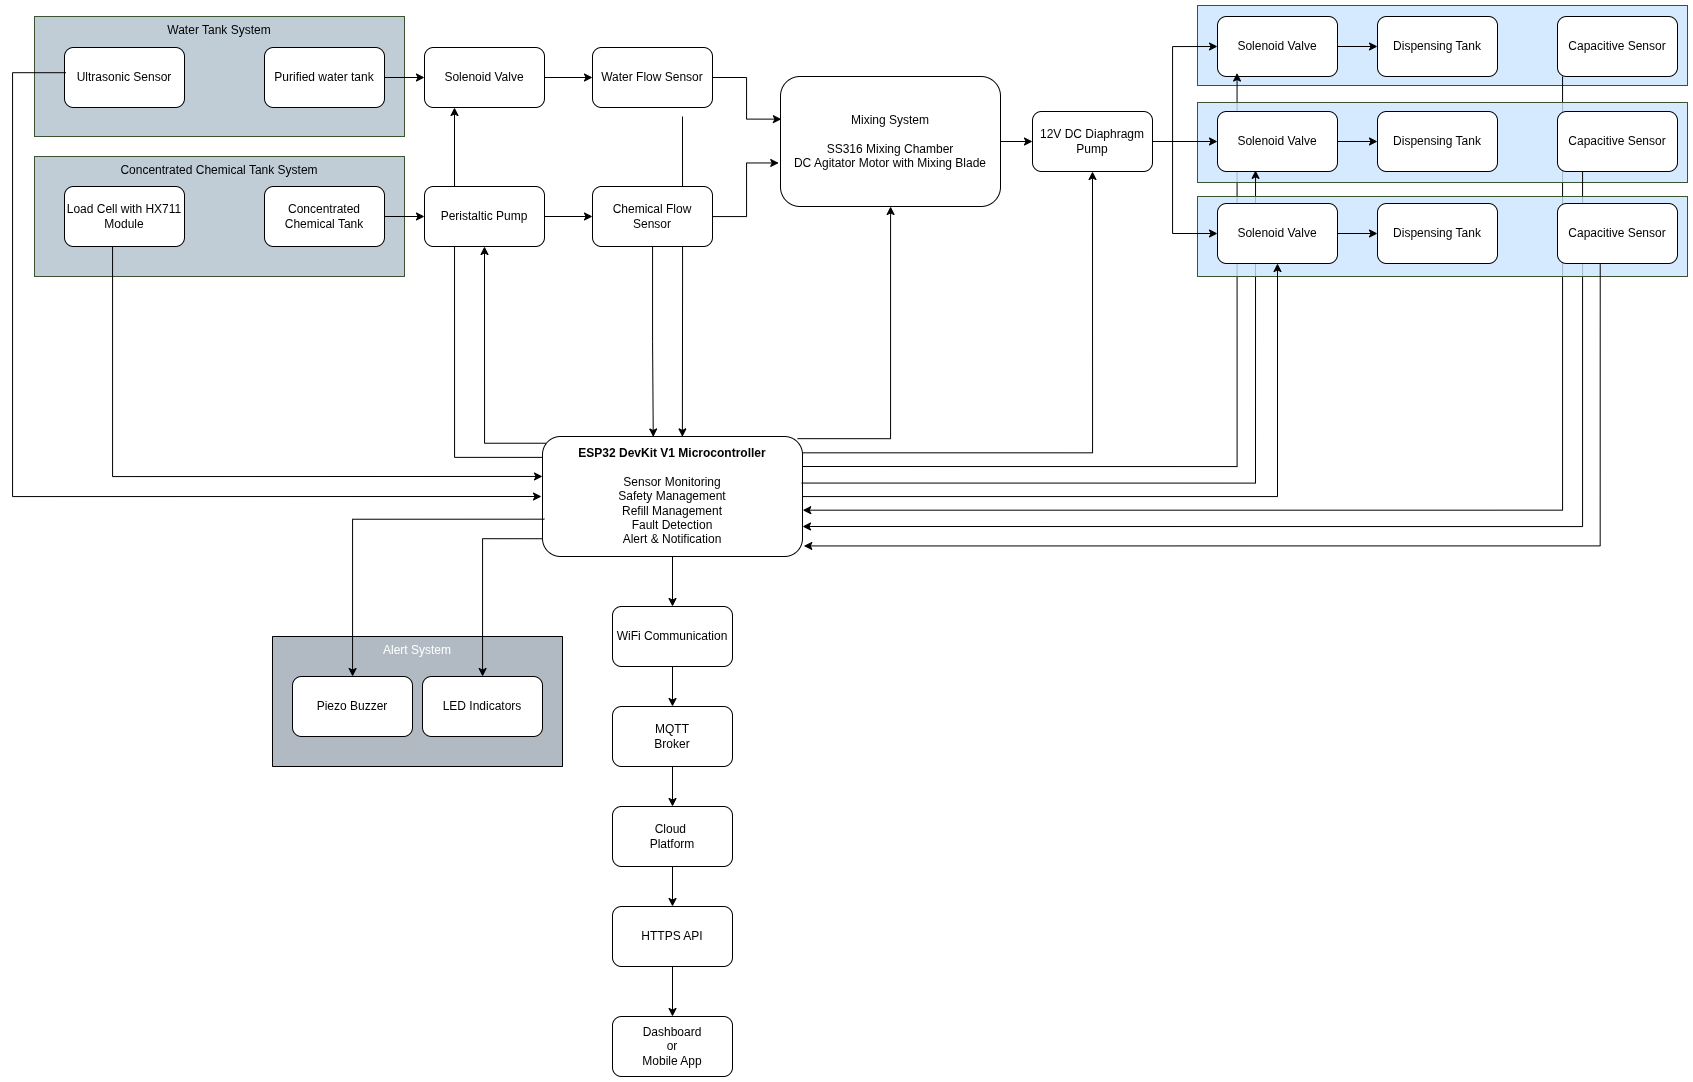
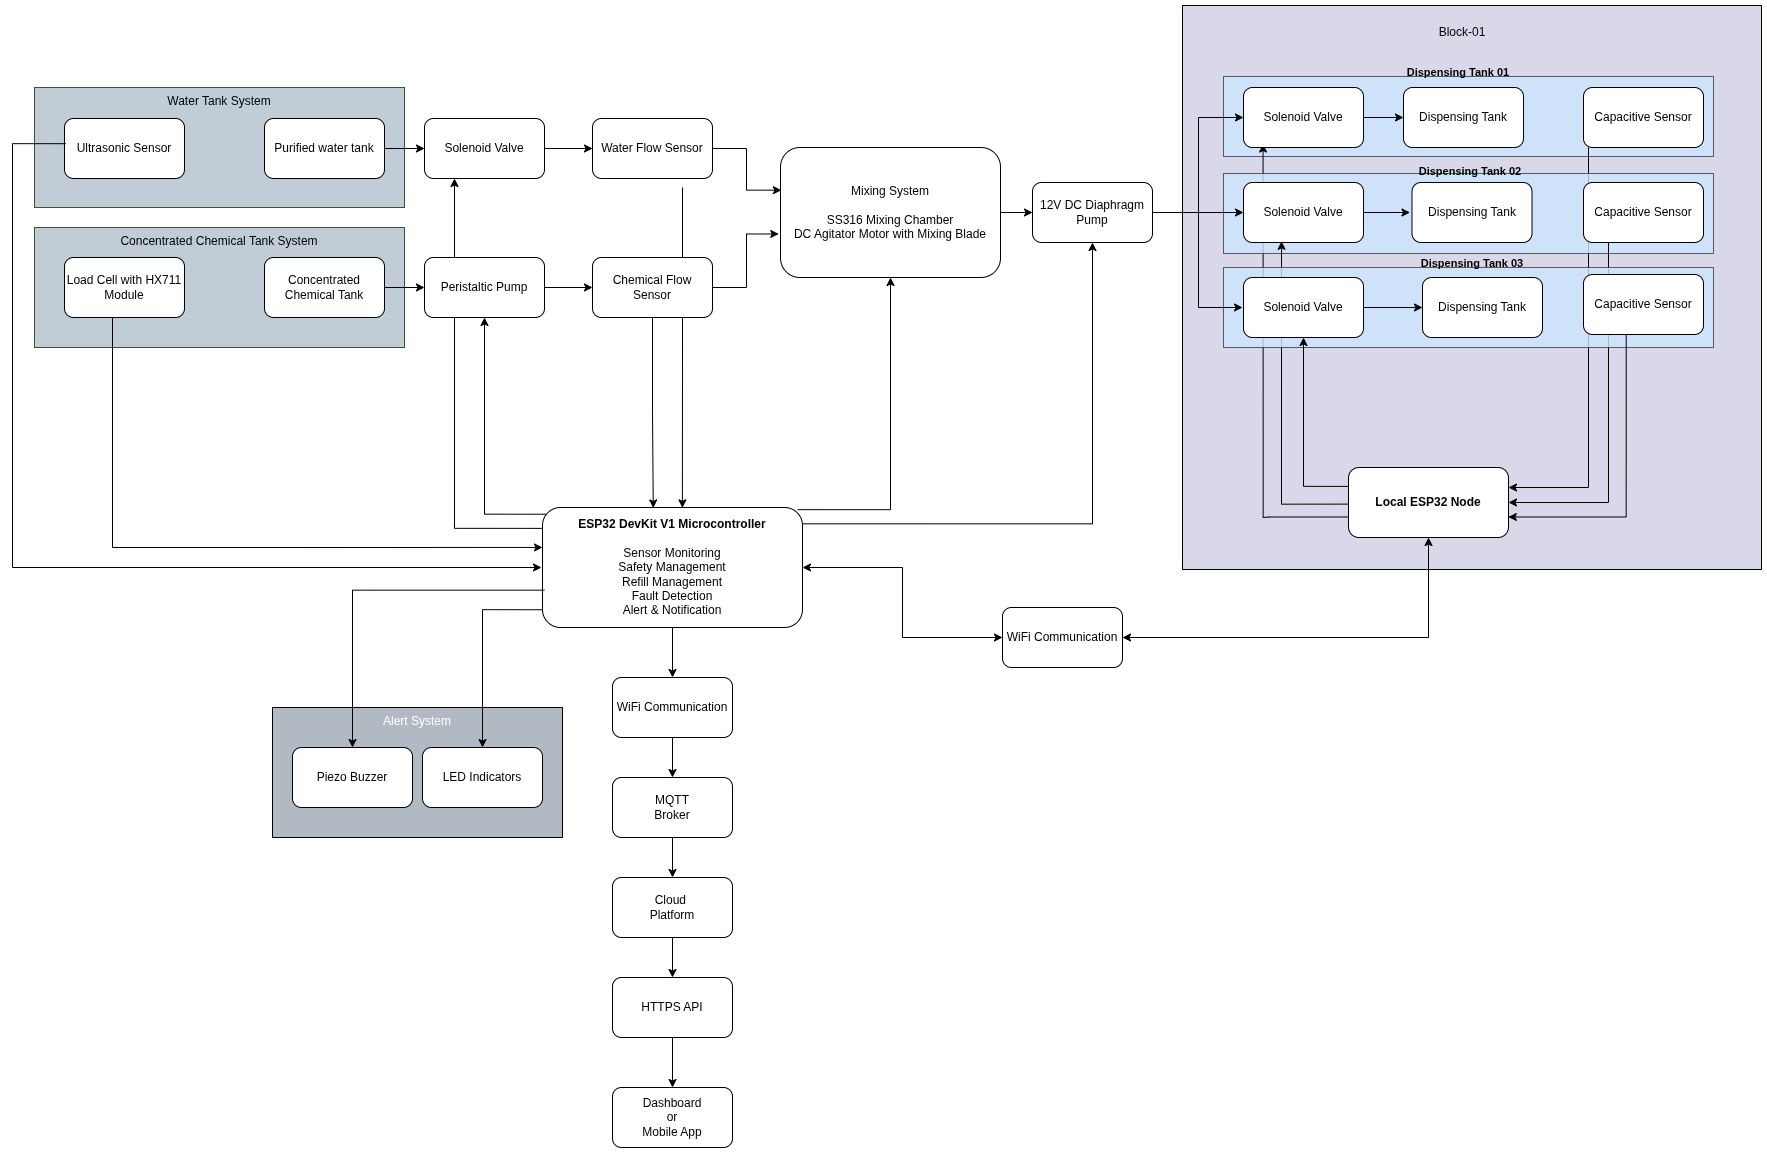
Update system architecture and design images for clarity and accuracy

diff --git a/hospital_iot_dispensing_report.tex b/hospital_iot_dispensing_report.tex
@@ -153,11 +153,14 @@ The proposed system consists of:
     \item Top-mounted agitator system
     \item Distribution diaphragm pump
     \item Common dispensing pipeline
-    \item Dispensing tanks
+    \item Groups of nearby dispensing tanks (dispensing blocks)
+    \item Local ESP32 nodes placed near each dispensing block for sensor reading and control
     \item ESP32-based controller
 \end{itemize}
 
-The peristaltic pump is used only for accurate concentrated chemical dosing into the 10L SS316 stainless steel mixing chamber. Purified water and concentrated chemical enter the mixing chamber, where a top-mounted DC agitator motor with a mixing blade continuously mixes the solution before distribution. After the chemical is uniformly mixed with purified water, a separate 12V DC diaphragm pump transfers the mixed solution from the mixing chamber into the common dispensing pipeline. This pipeline then distributes the prepared solution to multiple dispensing tanks located in different hospital areas.
+The proposed architecture supports many dispensing blocks placed in different hospital areas. A dispensing block is a small group of tanks that are near each other. Each tank in the block has a solenoid valve and a capacitive level sensor. These sensors and valves are connected with short wires to a nearby ESP32 node. The local ESP32 reads the sensor signals on its GPIO pins, checks for faults, and sends status messages wirelessly to the central controller.
+
+The peristaltic pump is used only for accurate concentrated chemical dosing into the 10L SS316 stainless steel mixing chamber. Purified water and concentrated chemical enter the mixing chamber, where a top-mounted DC agitator motor with a mixing blade continuously mixes the solution before distribution. After the chemical is uniformly mixed with purified water, a separate 12V DC diaphragm pump transfers the mixed solution from the mixing chamber into the common dispensing pipeline. This pipeline then distributes the prepared solution to the distributed dispensing tank blocks.
 
 
 \chapter{Method to Measure Water Level and Remaining Chemical Levels}
@@ -232,7 +235,7 @@ The system contains two separate liquid systems:
     \item Diluted chemical dispensing tanks
 \end{itemize}
 
-\noindent Capacitive level sensors are installed on the dispensing tanks to detect low-level refill conditions and generate refill requests to the ESP32 controller.
+\noindent Capacitive level sensors are installed on each dispensing tank in a block to detect low-level refill conditions. These sensors make electrical signals that are read by a nearby ESP32 node using short wires and the node's GPIO inputs. The sensors do not send data directly to the cloud or the central controller.
 
 \noindent The concentrated chemical tank uses two monitoring methods:
 
@@ -241,7 +244,7 @@ The system contains two separate liquid systems:
     \item Load cell weight sensor
 \end{itemize}
 
-The YF-S201 flow sensor continuously measures the amount of concentrated chemical dispensed into the mixing chamber. The ESP32 controller maintains a cumulative record of the total dispensed chemical volume.
+The YF-S201 flow sensor continuously measures the amount of concentrated chemical dispensed into the mixing chamber. The local ESP32 controller maintains a cumulative record of the total dispensed chemical volume.
 
 \noindent The remaining chemical quantity can be estimated using:
 
@@ -340,7 +343,7 @@ The refill operation stops automatically once the required target volume has bee
 \textbf{Component} & \textbf{Qty} & \textbf{Unit Cost (Rs.)} & \textbf{Price (Rs.)} \\
 \hline
 
-ESP32 DevKit V1 Microcontroller & 1 & 1,500 & 1,500 \\
+ESP32 DevKit V1 Local Node & 1 & 1,500 & 1,500 \\
 \hline
 Ultrasonic Sensor (Water Tank Level) & 1 & 1,880 & 1,880 \\
 \hline
@@ -348,7 +351,7 @@ Load Cell + HX711 Module (Chemical Tank) & 1 & 480 & 480 \\
 \hline
 Hall-Effect Flow Sensor & 1 & 650 & 650 \\
 \hline
-Capacitive Sensor (Dispensing Tank Level) & 1 & 1300 & 1300 \\
+Capacitive Sensor (One Tank in the Block) & 1 & 1300 & 1300 \\
 \hline
 Peristaltic Pump & 1 & 3500 & 3500 \\
 \hline
@@ -374,10 +377,10 @@ Wires, Connectors, Tubing (Estimated) & 1 & 1000 & 1000 \\
 \multicolumn{3}{|r|}{\textbf{Total}} & \textbf{27,540} \\
 \hline
 \end{tabularx}
-\caption{Estimated Total Hardware Cost for the Prototype (1 dispensing tank)}
+\caption{Estimated Hardware Cost for One Dispensing Block with One Local Node}
 \end{table}
 
-\noindent For each additional dispensing tank, the shared components such as the ESP32 controller, purified water tank, chemical tank, mixing chamber, agitator, dosing pump, and distribution pump do not need to be duplicated. Only the tank-side sensing and flow-control components are added.
+\noindent For each additional tank in the same block, the shared node, pump, mixer, and power parts stay the same. Only the tank-side sensor, valve, and short wiring are added.
 
 \begin{table}[H]
 \centering
@@ -386,20 +389,19 @@ Wires, Connectors, Tubing (Estimated) & 1 & 1000 & 1000 \\
 \renewcommand{\arraystretch}{1.15}
 \begin{tabularx}{\textwidth}{|>{\raggedright\arraybackslash}X|c|>{\raggedleft\arraybackslash}p{3cm}|>{\raggedleft\arraybackslash}p{3cm}|}
 \hline
-Servo PWM (valve) & D4 & Valve actuator in simulation (real system uses a normally-closed solenoid valve) \\
+\textbf{Component} & \textbf{Qty} & \textbf{Unit Cost (Rs.)} & \textbf{Price (Rs.)} \\
 \hline
-
-Capacitive Sensor (Dispensing Tank Level) & 1 & 1300 & 1300 \\
+Capacitive Sensor (One More Tank) & 1 & 1300 & 1300 \\
 \hline
 Normally Closed Solenoid Valve & 1 & 810 & 810 \\
 \hline
-Wires, Connectors, and Tubing for Additional Tank & 1 & 500 & 500 \\
+Wires, Connectors, and Tubing for One More Tank & 1 & 500 & 500 \\
 \hline
 
-\multicolumn{3}{|r|}{\textbf{Additional Cost per Dispensing Tank}} & \textbf{2,610} \\
+\multicolumn{3}{|r|}{\textbf{Additional Cost per Tank in the Same Block}} & \textbf{2,610} \\
 \hline
 \end{tabularx}
-\caption{Estimated Additional Hardware Cost for One Additional Dispensing Tank}
+\caption{Estimated Additional Hardware Cost for One More Tank in the Same Block}
 \end{table}
 
 
@@ -1122,11 +1124,11 @@ The proposed automated chemical dispensing system uses both sensor-based and com
 \begin{itemize}
     \item Ultrasonic sensor for purified water tank level monitoring
 
-    \item Capacitive level sensors are installed on the dispensing tanks to detect low-level refill conditions
+    \item Capacitive level sensors mounted on each dispensing tank block to detect low-level refill conditions through a local ESP32 node
 
     \item YF-S201 flow sensor for measuring liquid flow rate and dispensed volume
 
-    \item Load cell sensor with HX711 module for monitoring concentrated chemical quantity
+    \item Load cell sensor with HX711 module for monitoring concentrated chemical quantity locally
 
 \end{itemize}
 
@@ -1232,7 +1234,7 @@ Normally closed solenoid valves are used to automatically stop liquid flow durin
 
 \section{Data Collection from Dispensing Tanks}
 
-The dispensing tanks are distributed across different areas of the hospital and require continuous monitoring for refill management and fault detection. Capacitive level sensors are installed on the dispensing tanks to detect low-level refill conditions and generate refill requests.
+The dispensing tanks are spread across different areas of the hospital and need regular checks for refills and faults. Each dispensing block is a small group of tanks placed close to one another. Each tank has a solenoid valve and a capacitive level sensor. The sensors and valves are wired to a nearby ESP32 node with short cables. The ESP32 reads the sensor signals and handles safety checks. The sensor signals are not sent directly to the cloud or to a central controller.
 
 Sensor data collected from the dispensing tanks includes:
 
@@ -1243,31 +1245,31 @@ Sensor data collected from the dispensing tanks includes:
     \item Fault and overflow conditions
 \end{itemize}
 
-The sensor data is collected by ESP32-based controller nodes located near the dispensing tanks or connected directly to the central ESP32 controller depending on the installation distance and infrastructure layout.
+The sensor data is collected by ESP32-based local controller nodes located near the dispensing tanks. Direct long-distance wiring from every sensor to a central controller is impractical in a hospital because it increases cable length, installation effort, signal noise, voltage drop, and maintenance complexity. Using local ESP32 nodes close to the tanks improves scalability, reliability, and fault isolation.
 
-The collected data is transmitted to the central controller through a wireless communication network. The central ESP32 controller processes the received sensor data and manages refill scheduling, alarm generation, safety validation, and system monitoring operations.
+The local ESP32 nodes process the GPIO-based sensor readings and transmit the processed data to the central controller through a wireless communication network. This distributed arrangement is suitable for hospital-wide deployment because it allows tanks in different locations to be added without running new long sensor cables back to one central point. The central ESP32 controller processes the received status data and manages refill scheduling, alarm generation, safety validation, and system monitoring operations.
 
-For remote monitoring and IoT functionality, the central ESP32 controller transmits system telemetry to a cloud dashboard using MQTT over the hospital WiFi network. Hospital operators access monitoring information from the cloud dashboard using HTTPS from a mobile or web application. The communication chain is:
+For remote monitoring and IoT functionality, the central ESP32 controller transmits system telemetry to a cloud platform using MQTT over the hospital WiFi network. Hospital operators access monitoring information from the cloud platform using HTTPS from a mobile or web application. The communication chain is:
 
 \begin{center}
-ESP32 Controller $\to$ WiFi $\to$ MQTT Broker $\to$ Cloud Dashboard $\to$ HTTPS Mobile/Web Application
+Dispensing Tank Sensors $\to$ Local ESP32 Node $\to$ Wireless Communication Network $\to$ Central ESP32 Controller $\to$ MQTT Broker $\to$ Cloud Platform $\to$ HTTPS API $\to$ Dashboard or Mobile Application
 \end{center}
 
-The ESP32 controller performs local control functions including refill control, safety logic, alarm handling, and sensor monitoring. The cloud platform is used only for monitoring, logging, alert forwarding, and remote access — it does not perform the real-time control of refill operations.
+The local ESP32 nodes and the central ESP32 controller perform the local control functions, including refill control, safety logic, alarm handling, and sensor monitoring. The cloud platform is used only for monitoring, logging, alert forwarding, and remote access; it does not perform the real-time control of refill operations.
 
 This architecture supports:
 
 \begin{itemize}
-    \item Distributed dispensing tank monitoring
-    \item Centralized refill management
-    \item Real-time alarm handling
+    \item Distributed dispensing tank monitoring across multiple hospital locations
+    \item Centralized refill management with local node-based validation
+    \item Real-time alarm handling at the local node and central controller
     \item Cloud-based monitoring and logging
-    \item Remote maintenance access
+    \item Remote maintenance access through secure web and mobile clients
 \end{itemize}
 
 \section{Communication Method Comparison}
 
-Two communication methods considered for this project were WiFi and ZigBee. These methods were compared based on communication range, power consumption, implementation complexity, scalability, and suitability for hospital environments.
+Two communication methods considered for this project were WiFi and ZigBee. These methods were compared based on communication range, power consumption, scalability, implementation complexity, ESP32 compatibility, and suitability for hospital infrastructure.
 
 \begin{table}[H]
 \centering
@@ -1279,13 +1281,13 @@ Two communication methods considered for this project were WiFi and ZigBee. Thes
 \textbf{Feature} & \textbf{WiFi} & \textbf{ZigBee} \\
 \hline
 
-Communication Range & Moderate & Moderate to High \\
+Communication Range & Moderate in building coverage & Moderate to High \\
 \hline
 
 Power Consumption & High & Low \\
 \hline
 
-Data Transmission Speed & High & Low \\
+Data Transmission Speed & High & Lower than WiFi \\
 \hline
 
 Ease of Implementation & Easy & Moderate \\
@@ -1300,7 +1302,7 @@ Network Scalability & Moderate & High \\
 Mesh Networking Support & Limited & Yes \\
 \hline
 
-Internet Connectivity & Direct & Requires gateway \\
+Hospital Infrastructure Suitability & Strong fit with existing hospital WiFi and MQTT integration & Suitable for large meshes, but requires gateways and extra planning \\
 \hline
 
 Approximate Hardware Cost & Low & Moderate \\
@@ -1317,7 +1319,7 @@ Hardware Module Link & Available in ESP32 & \url{https://tronic.lk/product/xbee-
 
 WiFi communication was selected as the primary communication method for the proposed prototype because the ESP32 controller provides built-in WiFi capability without requiring additional communication modules.
 
-WiFi supports direct communication between distributed dispensing tank controllers and the central controller through the hospital wireless network infrastructure. This allows real-time monitoring of dispensing tank levels, refill requests, flow conditions, and system alarms.
+WiFi supports wireless communication between the distributed local ESP32 nodes and the central controller through the hospital wireless network infrastructure. This allows real-time monitoring of dispensing tank levels, refill requests, flow conditions, and system alarms without direct long-distance sensor wiring.
 
 Compared with ZigBee, WiFi provides:
 
@@ -1328,24 +1330,25 @@ Compared with ZigBee, WiFi provides:
     \item Lower implementation complexity for the prototype system
 \end{itemize}
 
-Although ZigBee provides lower power consumption and better mesh-network capability for large distributed systems, it requires additional hardware modules and more complex network configuration.
+Although ZigBee provides lower power consumption and better mesh-network capability for very large distributed systems, it requires additional hardware modules and more complex network configuration. It is therefore more suitable for large mesh deployments than for a low-complexity prototype.
 
-For IoT monitoring functionality, MQTT protocol is used over the WiFi network to transmit system telemetry data between the ESP32 controller and the cloud dashboard. MQTT provides lightweight and reliable communication suitable for real-time IoT monitoring systems.
+For IoT monitoring functionality, MQTT protocol is used over the WiFi network to transmit system telemetry data between the central ESP32 controller and the cloud platform. MQTT provides lightweight and reliable communication suitable for real-time IoT monitoring systems.
 
 The communication architecture of the proposed system is:
 
-Dispensing Tank Sensors → ESP32 Controller → WiFi Network → MQTT Broker → Cloud Dashboard → HTTPS Mobile/Web Application
+Dispensing Tank Sensors $\to$ Local ESP32 Node $\to$ Wireless Communication Network $\to$ Central ESP32 Controller $\to$ MQTT Broker $\to$ Cloud Platform $\to$ HTTPS API $\to$ Dashboard or Mobile Application
 
-HTTPS communication is used between the cloud platform and the mobile monitoring application to provide secure remote access for hospital operators and maintenance personnel.
+HTTPS communication is used between the cloud platform and the dashboard or mobile application to provide secure remote access for hospital operators and maintenance personnel.
 
 WiFi with MQTT was selected because the proposed system operates inside a hospital building with existing WiFi infrastructure and requires real-time cloud monitoring capability.
 \vspace{6pt}
+
 \noindent\textbf{How dispensing tank data is collected and communicated:}
 \begin{itemize}
-    \item Each dispensing tank is monitored by a local ESP32 node or a sensor wired to a nearby ESP32 placed within hospital WiFi coverage.
-    \item The local ESP32 node reads the capacitive level sensors, performs local safety checks, and publishes telemetry to an MQTT broker over WiFi.
-    \item The cloud dashboard subscribes to MQTT topics to aggregate telemetry. Mobile and web applications access aggregated data from the cloud over HTTPS.
-    \item For wide-area deployments, additional WiFi access points or local gateways should be used to ensure reliable connectivity. ZigBee with gateways can be considered for very large, low-power networks.
+    \item Each dispensing block is a small group of tanks monitored by a nearby ESP32 node. The sensors and valves are connected to that node with short wires, not long runs back to the central controller.
+    \item The local ESP32 node reads the capacitive level sensor, executes local safety checks, and publishes telemetry to an MQTT broker over WiFi.
+    \item The cloud platform subscribes to MQTT topics to aggregate telemetry. Mobile and web applications access aggregated data from the cloud platform over HTTPS.
+    \item For hospital-wide deployment, additional WiFi access points can extend coverage. ZigBee can be considered for very large mesh networks, but it adds hardware and configuration complexity.
 \end{itemize}
 
 
@@ -1384,7 +1387,7 @@ RGB LED (R/G/B) & D14 / D27 / D33 & System status indicators \\
 Buzzer & D25 & Audible alarm/notification \\
 Push-button: Tank request & D13 & Manual refill request (active-low) \\
 Push-button: Flow pulse & D26 & Simulated flow pulses \\
-Push-button: Chemical OK & D12 & Chemical present confirmation \\
+Push-button: Chemical / load-cell status & D12 & Simulated chemical level confirmation \\
 Serial & TX0 / RX0 & Debug / serial monitor \\
 \bottomrule
 \end{tabular}
@@ -1409,7 +1412,7 @@ Serial & TX0 / RX0 & Debug / serial monitor \\
 \chapter{Simulation of the Implementation}
 
 \section{Simulation}
-The WokWi simulation uses an ESP32 DevKit V1 and the peripheral modules listed below.
+The WokWi simulation uses an ESP32 DevKit V1 to demonstrate a single dispensing node and the central controller logic. The peripheral modules listed below represent the behavior of the real system in a simplified form.
 
 \noindent\textbf{Simulated parts:}
 \begin{itemize}
@@ -1419,16 +1422,16 @@ The WokWi simulation uses an ESP32 DevKit V1 and the peripheral modules listed b
     \item SG90-style servo (used only in Wokwi to emulate solenoid valve actuation; the real system uses a normally-closed solenoid valve)
     \item RGB LED (with series resistors on R/G/B lines)
     \item Piezo buzzer
-    \item Three push-buttons to emulate: tank request, flow pulse, chemical present
+    \item Three push-buttons to emulate: tank request, flow pulse, and chemical or load-cell status
     \item Breadboard for power and common ground wiring
 \end{itemize}
 \vspace{4pt}
 \noindent\textbf{Simulation notes:}
 \begin{itemize}
     \item The real system uses a normally-closed solenoid valve for flow control; a small servo is used in Wokwi only because Wokwi does not simulate solenoid valve hardware directly.
-    \item Chemical availability in the simulation is represented by a push-button input. In the real system chemical level is measured by a load cell with an HX711 module.
+    \item Load cell behavior in the simulation is represented by a push-button input. In the real system chemical level is measured by a load cell with an HX711 module.
     \item Flow pulse generation in the simulation is emulated using a push-button to trigger pulses; in the real system the YF-S201 flow sensor produces pulse signals proportional to flow.
-    \item The Wokwi simulation demonstrates refill and monitoring logic for a single dispensing tank. The proposed architecture supports multiple dispensing tanks in the field.
+    \item The Wokwi simulation demonstrates refill and monitoring logic for a single dispensing node, while the proposed real-world architecture supports multiple distributed dispensing tank blocks.
     \item The simulation validates control logic and monitoring behavior only; it does not model actual fluid dynamics or chemical mixing physics.
 \end{itemize}
 \section{Source Code}
@@ -1441,8 +1444,8 @@ The WokWi simulation uses an ESP32 DevKit V1 and the peripheral modules listed b
 An IoT-based automated hospital chemical dispensing system was designed and simulated. 
 It uses an ESP32 controller with ultrasonic, load cell, flow, and capacitive sensors, plus peristaltic and diaphragm pumps for accurate dosing and mixing.
 Multiple safety features detect leaks, overflows, and sensor faults.
-WiFi with MQTT enables real-time monitoring and alerts.
-The Wokwi simulation validated the core functions.
+WiFi with MQTT enables real-time monitoring and alerts, while the cloud platform is used for monitoring and logging rather than direct control.
+The Wokwi simulation validated the core logic for one dispensing node in the larger distributed architecture.
 
 \begin{thebibliography}{9}
 \addcontentsline{toc}{chapter}{References}
@@ -1472,7 +1475,7 @@ YouTube, ``Zigbee Overview,'' 2024. [Online]. Available: \url{https://youtu.be/l
 Wikipedia, \textit{LoRa}. [Online]. Available: \url{https://en.wikipedia.org/wiki/LoRa}
 
 \bibitem{chatgpt}
-OpenAI, "ChatGPT". [Online]. Available: \url{https://chat.openai.com/}.
+OpenAI, "ChatGPT," used to help generate the system architecture image. [Online]. Available: \url{https://chat.openai.com/}.
 
 \end{thebibliography}
 
